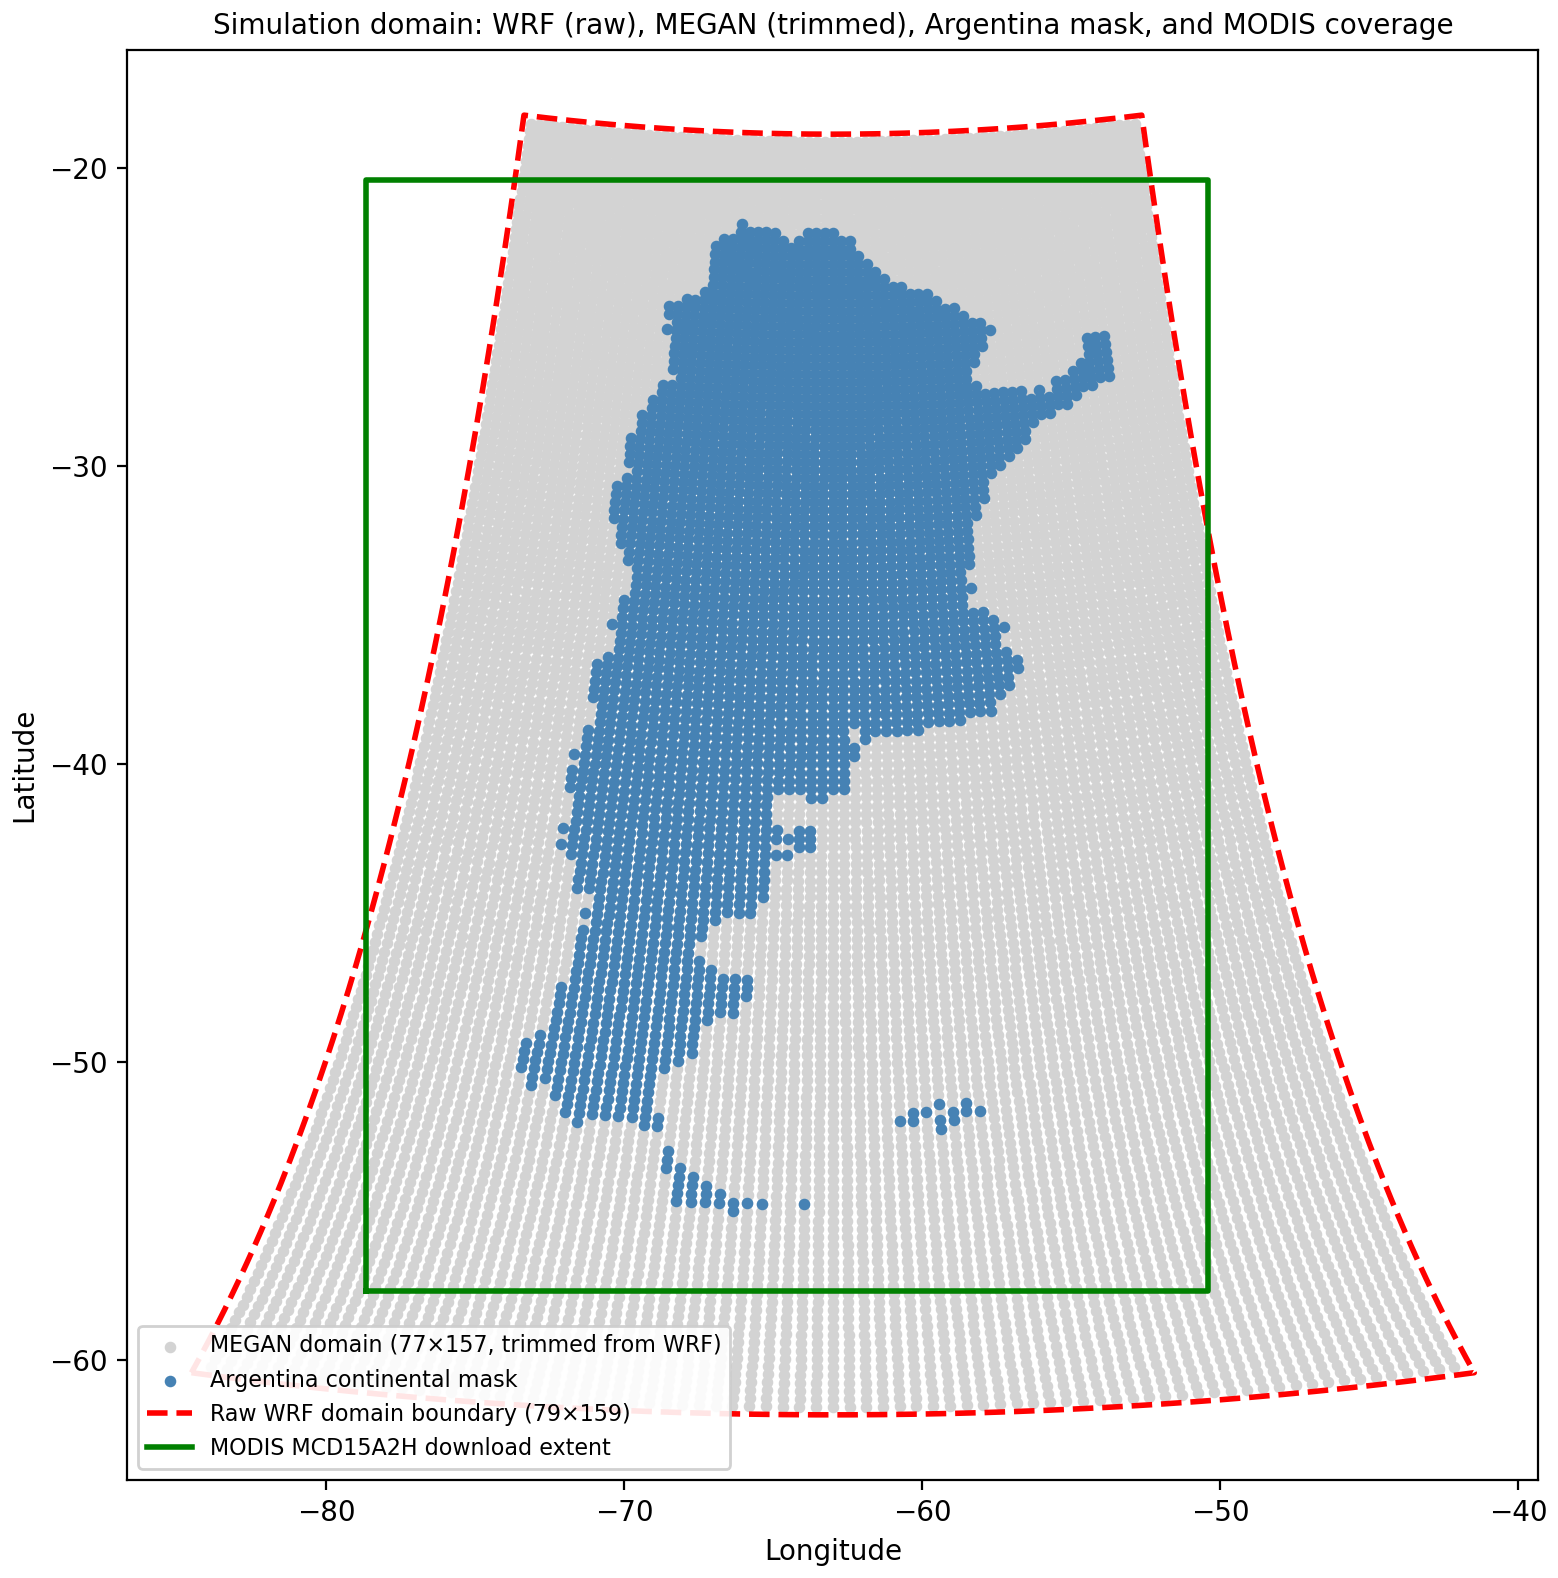
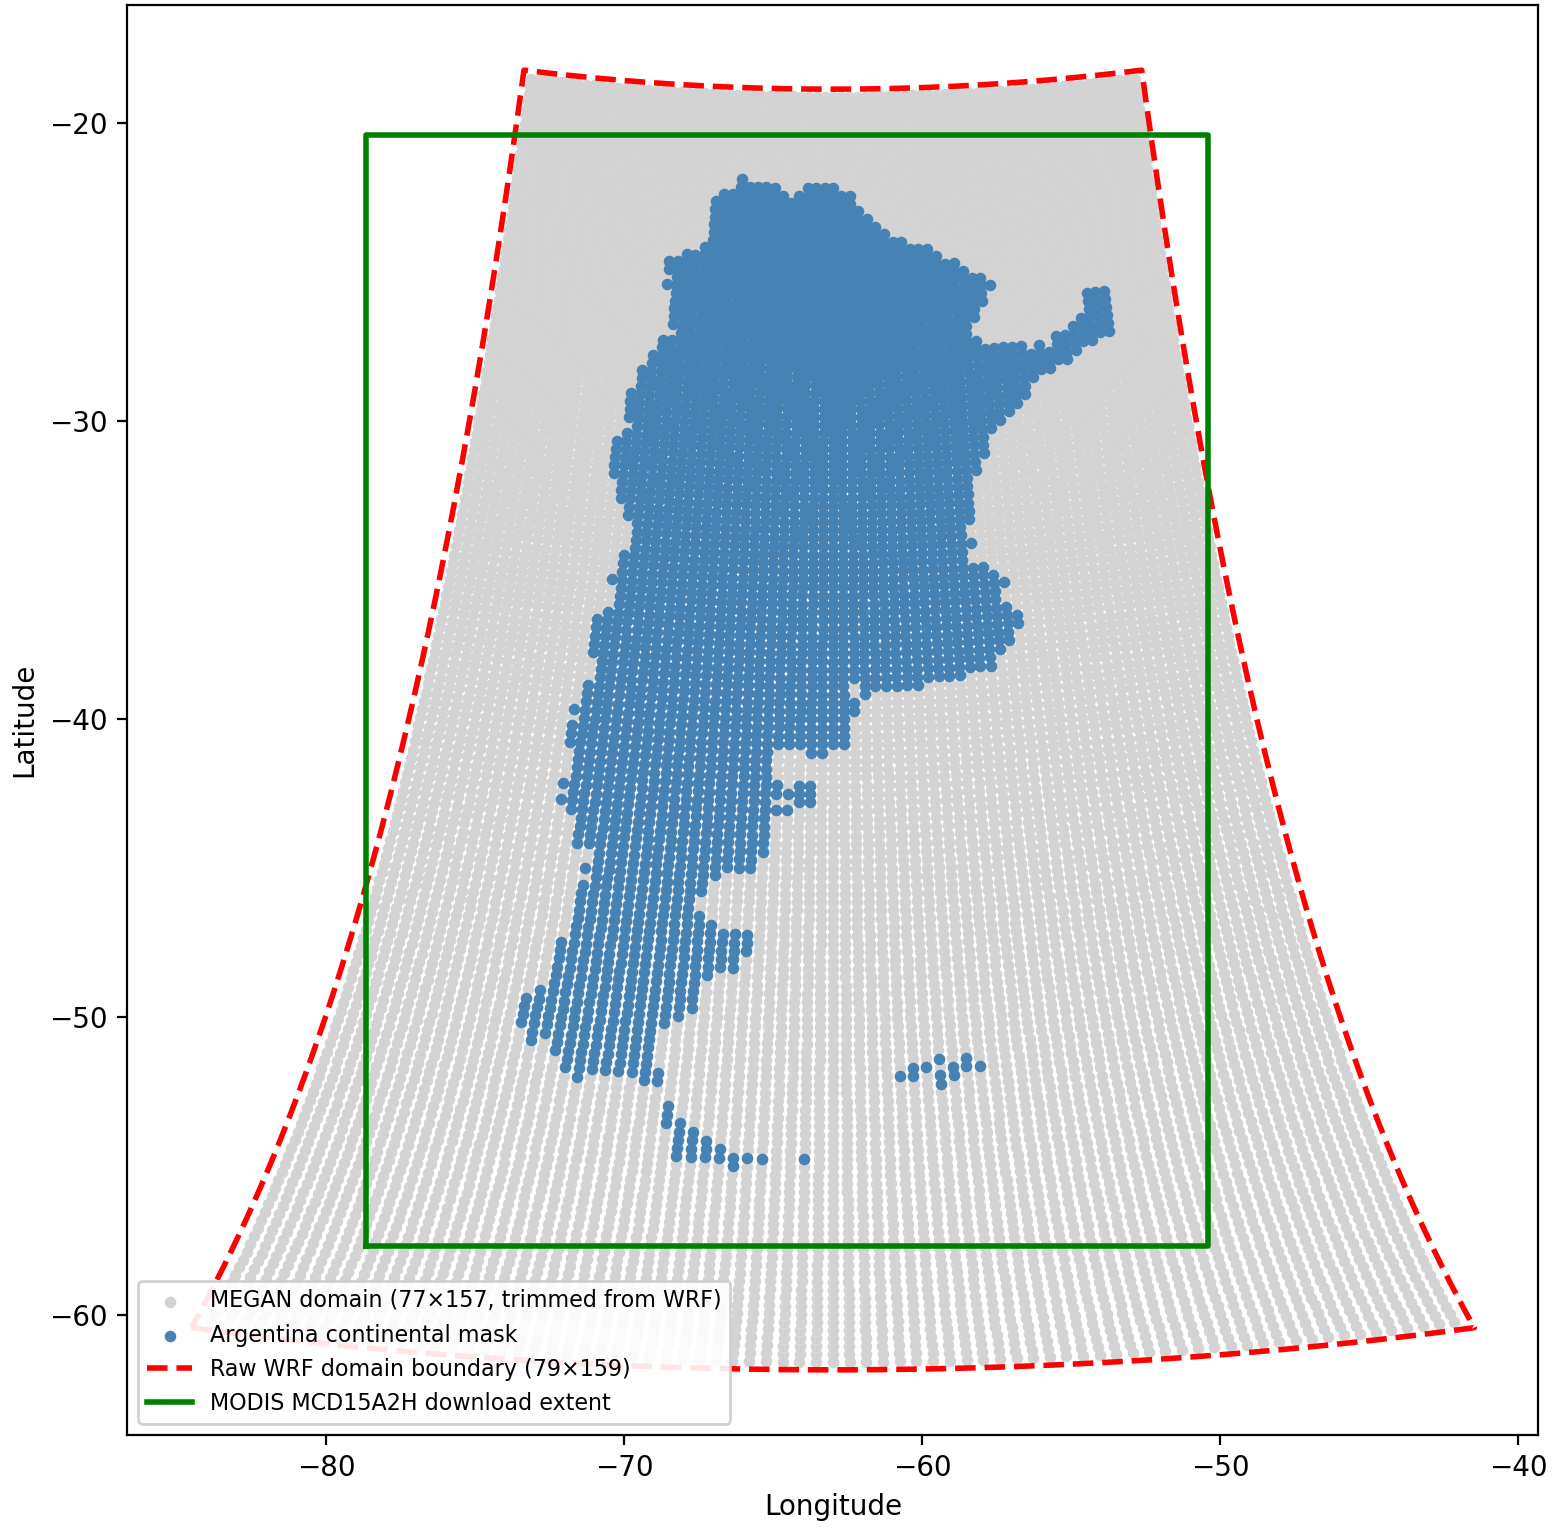
Figuras 1 y 3 sin título interno; texto alineado con Figs. 5 y 6
- Fig. 1 y Fig. 3: se recorta el título embebido (IEEE usa solo el caption)
- Resultados: pico del ciclo diurno ~17 h UTC (no 14-16 h), inicio 10-11 h UTC
- Resultados: magnitud de DeltaE por celda acorde a la escala de la Fig. 5
- Variabilidad inter-diaria: relativamente mayor en invierno

Claude-Session: https://claude.ai/code/session_01GFo5mRgVRUwMtUW9yBfK1d

diff --git a/main.tex b/main.tex
@@ -200,7 +200,7 @@ Ecoregion & N & & \multicolumn{1}{c}{Default} & \multicolumn{1}{c}{MODIS 2023} &
 % VERIFICAR: completar N de "Other ecoregions" (celdas totales de la mascara - 2067).
 
 The complete spatial distribution of these differences, shown in the maps of relative ($\Delta E\%$; Fig.~\ref{fig:rel}) and absolute biases ($\Delta E$, kmol; Fig.~\ref{fig:abs}), confirms and extends what was observed at the ecoregion level. In relative terms, most Patagonian grid cells show a systematic and marked reduction ($-40\%$ to $-60\%$) when using MODIS LAI, in both seasons, while the center-north of the country (Chaco, Pampa) presents much more moderate differences, close to zero. The ecoregion-level values in Table~\ref{tab:ecoregions} ($-25.1\%$ and $-31.0\%$) are smaller in magnitude because they are computed from aggregated totals and are therefore weighted toward the higher-emitting cells, where relative changes are less pronounced. % VERIFICAR con la mediana de DeltaE% por celda en la Patagonian Steppe
-In absolute terms, however, the pattern is markedly seasonal: in summer an intense concentration of negative absolute change is observed in the NOA and Chaco regions (up to $-25$~kmol), while in winter that same zone shows much more subtle absolute changes, practically negligible in the rest of the country. This demonstrates that the relative and absolute sensitivity of the model to the LAI source are not equivalent, nor do they respond in the same way to seasonality: Patagonia is relatively more sensitive to LAI change in both seasons, while the absolute sensitivity of the Chaco/NOA is markedly greater in summer than in winter.
+In absolute terms, however, the pattern is markedly seasonal: in summer an intense concentration of negative absolute change is observed in the NOA and Chaco regions (exceeding $-600$~kmol per cell) % VERIFICAR: antes decia -25 kmol; la barra de color de la Fig. 5 llega a +-700 kmol, while in winter that same zone shows much more subtle absolute changes, practically negligible in the rest of the country. This demonstrates that the relative and absolute sensitivity of the model to the LAI source are not equivalent, nor do they respond in the same way to seasonality: Patagonia is relatively more sensitive to LAI change in both seasons, while the absolute sensitivity of the Chaco/NOA is markedly greater in summer than in winter.
 
 \begin{figure}[!t]
 \centering
@@ -227,7 +227,7 @@ Fig.~\ref{fig:temporal} complements the spatial analysis with a temporal charact
 
 In terms of daily total emissions (Fig.~\ref{fig:temporal}a and \ref{fig:temporal}b), both scenarios show a very similar temporal evolution in both seasons, with the curves practically overlapping. In summer (Fig.~\ref{fig:temporal}a), daily emissions range between approximately $800\times10^3$ and $1300\times10^3$~kmol/day, with an increasing trend toward the end of the week. In winter (Fig.~\ref{fig:temporal}b), values are considerably lower (between approximately $100\times10^3$ and $310\times10^3$~kmol/day). In both cases, the gap between scenarios (grey area, $\Delta E$) remains constant in relative terms throughout the days, indicating that the sensitivity to LAI does not depend on intra-weekly meteorological variability but rather reflects a structural difference in the LAI input.
 
-The mean diurnal cycle (Fig.~\ref{fig:temporal}c and \ref{fig:temporal}d) shows the characteristic pattern of isoprene emissions controlled by light and temperature~\cite{guenther1993}: zero values during nighttime hours, a marked increase from 8--10~h UTC, a peak around 14--16~h UTC, and a decline toward the late afternoon and evening. In summer, the mean peak reaches ${\sim}40$~kmol/s for the Default scenario and ${\sim}37$~kmol/s for emissions estimated with updated MODIS data; in winter, the peaks are ${\sim}9$ and ${\sim}8$~kmol/s, respectively. The shaded area represents the standard deviation within each week, being considerably larger in summer, reflecting the greater meteorological variability characteristic of that season. Notably, the shape of the diurnal cycle is practically identical between scenarios, confirming that the effect of LAI acts as a scaling factor on the magnitude of emissions without modifying their temporal distribution.
+The mean diurnal cycle (Fig.~\ref{fig:temporal}c and \ref{fig:temporal}d) shows the characteristic pattern of isoprene emissions controlled by light and temperature~\cite{guenther1993}: zero values during nighttime hours, a marked increase from 10--11~h UTC, a peak around 17~h UTC (${\sim}14$~h local time), and a decline toward the late afternoon and evening. In summer, the mean peak reaches ${\sim}40$~kmol/s for the Default scenario and ${\sim}37$~kmol/s for emissions estimated with updated MODIS data; in winter, the peaks are ${\sim}9$ and ${\sim}8$~kmol/s, respectively. The shaded area represents the inter-day standard deviation within each week; although larger in absolute terms in summer, it is proportionally larger in winter, reflecting the greater day-to-day meteorological variability of that week (see also Fig.~\ref{fig:temporal}b). Notably, the shape of the diurnal cycle is practically identical between scenarios, confirming that the effect of LAI acts as a scaling factor on the magnitude of emissions without modifying their temporal distribution.
 
 % ---------------------------------------------------------------------
 \section{Discussion and Conclusion}
